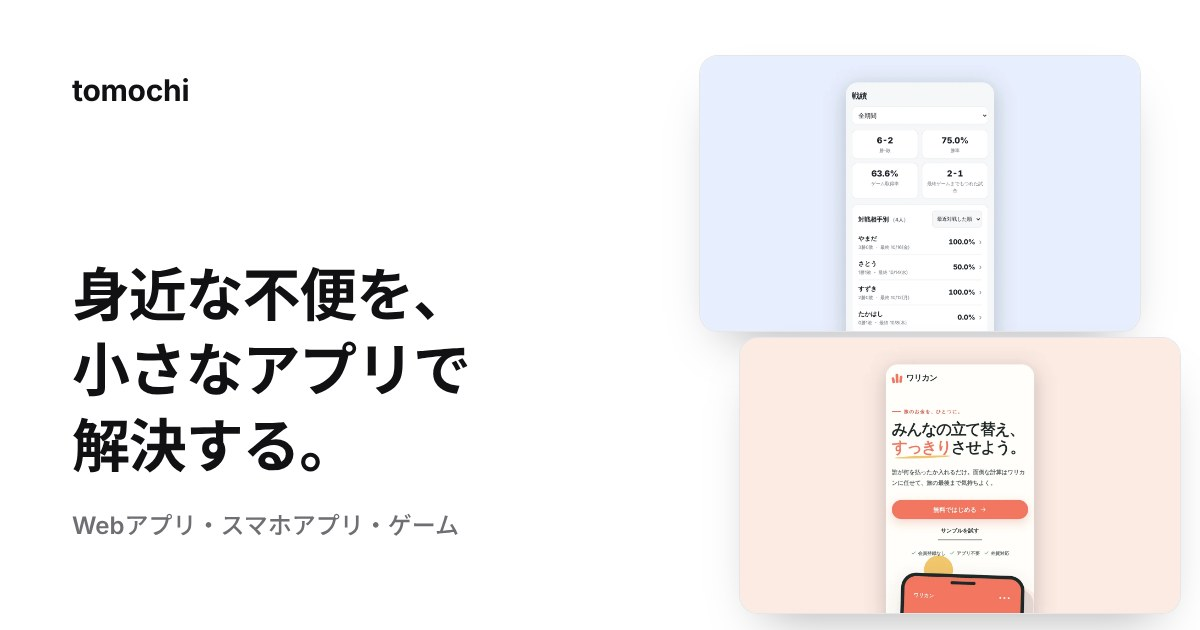
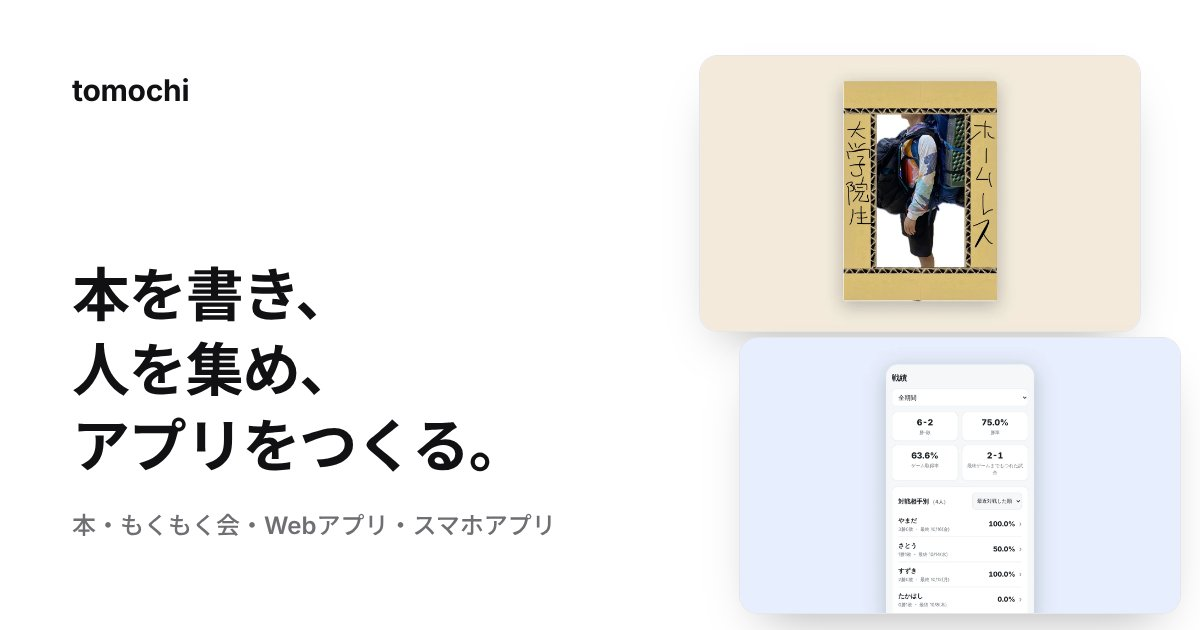
Rewrite the headline to lead with books and community
Claude-Session: https://claude.ai/code/session_01Gu5bMHeh83pnsdTjSqEgQP

diff --git a/rich/index.html b/rich/index.html
@@ -4,14 +4,14 @@
   <meta charset="utf-8">
   <meta name="viewport" content="width=device-width, initial-scale=1">
   <title>tomochi</title>
-  <meta name="description" content="tomochi のポートフォリオ（リッチ版）。身近な不便を解決するWebアプリ、スマホアプリ、ゲームを作っています。本の執筆やもくもく会の主催も。">
+  <meta name="description" content="tomochi のポートフォリオ（リッチ版）。本の執筆、もくもく会の主催、身近な不便を解決するWebアプリ・スマホアプリ・ゲームづくりをしています。">
   <link rel="canonical" href="https://tomochi3.github.io/tomo/rich/">
   <meta property="og:type" content="website">
   <meta property="og:site_name" content="tomochi">
   <meta property="og:locale" content="ja_JP">
   <meta property="og:url" content="https://tomochi3.github.io/tomo/rich/">
   <meta property="og:title" content="tomochi">
-  <meta property="og:description" content="身近な不便を、小さなアプリで解決する。Webアプリ、スマホアプリ、ゲームを作っています。本の執筆やもくもく会の主催も。">
+  <meta property="og:description" content="本を書き、人を集め、アプリをつくる。本の執筆、もくもく会の主催、Webアプリ・スマホアプリ・ゲームづくりをしています。">
   <meta property="og:image" content="https://tomochi3.github.io/tomo/img/og.jpg">
   <meta property="og:image:width" content="1200">
   <meta property="og:image:height" content="630">
@@ -60,7 +60,7 @@
 
     /* ---------- type ---------- */
     .eyebrow { font-size: clamp(17px, 2vw, 21px); font-weight: 600; }
-    .h-xl { font-size: clamp(44px, 8.4vw, 96px); font-weight: 700; line-height: 1.08; letter-spacing: -.03em; }
+    .h-xl { font-size: clamp(32px, 10.4vw, 96px); font-weight: 700; line-height: 1.08; letter-spacing: -.03em; }
     .h-l { font-size: clamp(36px, 6vw, 72px); font-weight: 700; line-height: 1.1; letter-spacing: -.025em; }
     .h-m { font-size: clamp(28px, 4.4vw, 48px); font-weight: 700; line-height: 1.15; letter-spacing: -.02em; }
     .lead { font-size: clamp(17px, 2.1vw, 21px); line-height: 1.6; font-weight: 500; }
@@ -334,8 +334,8 @@
     <!-- ===== 導入（暗） ===== -->
     <section class="hero on-dark" id="top">
       <div class="wrap">
-        <h1 class="h-xl hero__title"><span class="phrase">身近な不便を、</span><br><span class="phrase">小さなアプリで</span><span class="phrase">解決する。</span></h1>
-        <p class="lead soft"><span class="phrase">本の執筆や、</span><span class="phrase">もくもく会の主催をしています。</span><br><span class="phrase">Webアプリ、スマホアプリ、</span><span class="phrase">ゲームも作っています。</span></p>
+        <h1 class="h-xl hero__title"><span class="phrase">本を書き、</span><span class="phrase">人を集め、</span><br><span class="phrase">アプリをつくる。</span></h1>
+        <p class="lead soft"><span class="phrase">398日の家なし生活を本にし、</span><span class="phrase">運動不足解消もくもく会を主催。</span><br><span class="phrase">身近な不便を、</span><span class="phrase">小さなアプリで解決しています。</span></p>
         <div class="actions">
           <a class="btn" href="#book">本を見る</a>
           <a class="link" href="#works">作品を見る</a>

diff --git a/index.html b/index.html
@@ -4,18 +4,18 @@
   <meta charset="utf-8">
   <meta name="viewport" content="width=device-width, initial-scale=1">
   <title>tomochi</title>
-  <meta name="description" content="tomochi のポートフォリオ。身近な不便を解決するWebアプリ、スマホアプリ、ゲームを作っています。本の執筆やもくもく会の主催も。">
+  <meta name="description" content="tomochi のポートフォリオ。本の執筆、もくもく会の主催、身近な不便を解決するWebアプリ・スマホアプリ・ゲームづくりをしています。">
   <link rel="canonical" href="https://tomochi3.github.io/tomo/">
   <meta property="og:type" content="website">
   <meta property="og:site_name" content="tomochi">
   <meta property="og:locale" content="ja_JP">
   <meta property="og:url" content="https://tomochi3.github.io/tomo/">
   <meta property="og:title" content="tomochi">
-  <meta property="og:description" content="身近な不便を、小さなアプリで解決する。Webアプリ、スマホアプリ、ゲームを作っています。本の執筆やもくもく会の主催も。">
+  <meta property="og:description" content="本を書き、人を集め、アプリをつくる。本の執筆、もくもく会の主催、Webアプリ・スマホアプリ・ゲームづくりをしています。">
   <meta property="og:image" content="https://tomochi3.github.io/tomo/img/og.jpg">
   <meta property="og:image:width" content="1200">
   <meta property="og:image:height" content="630">
-  <meta property="og:image:alt" content="tomochi「身近な不便を、小さなアプリで解決する。」と作品のスクリーンショット">
+  <meta property="og:image:alt" content="tomochi「本を書き、人を集め、アプリをつくる。」と著書・作品の画像">
   <meta name="twitter:card" content="summary_large_image">
   <link rel="icon" href="favicon.ico?v=2" sizes="48x48">
   <link rel="icon" href="icon.svg?v=2" type="image/svg+xml">
@@ -42,8 +42,8 @@
 
   <main id="main" tabindex="-1">
     <section class="hero container">
-      <h1 class="hero__title"><span class="phrase">身近な不便を、</span><span class="phrase">小さなアプリで</span><span class="phrase">解決する。</span></h1>
-      <p class="hero__lead"><span class="phrase">本の執筆や、</span><span class="phrase">もくもく会の主催をしています。</span><br><span class="phrase">Webアプリ、スマホアプリ、</span><span class="phrase">ゲームも作っています。</span></p>
+      <h1 class="hero__title"><span class="phrase">本を書き、</span><span class="phrase">人を集め、</span><span class="phrase">アプリをつくる。</span></h1>
+      <p class="hero__lead"><span class="phrase">398日の家なし生活を本にし、</span><span class="phrase">運動不足解消もくもく会を主催。</span><br><span class="phrase">身近な不便を、</span><span class="phrase">小さなアプリで解決しています。</span></p>
     </section>
 
     <section class="container section" aria-labelledby="more-title">
